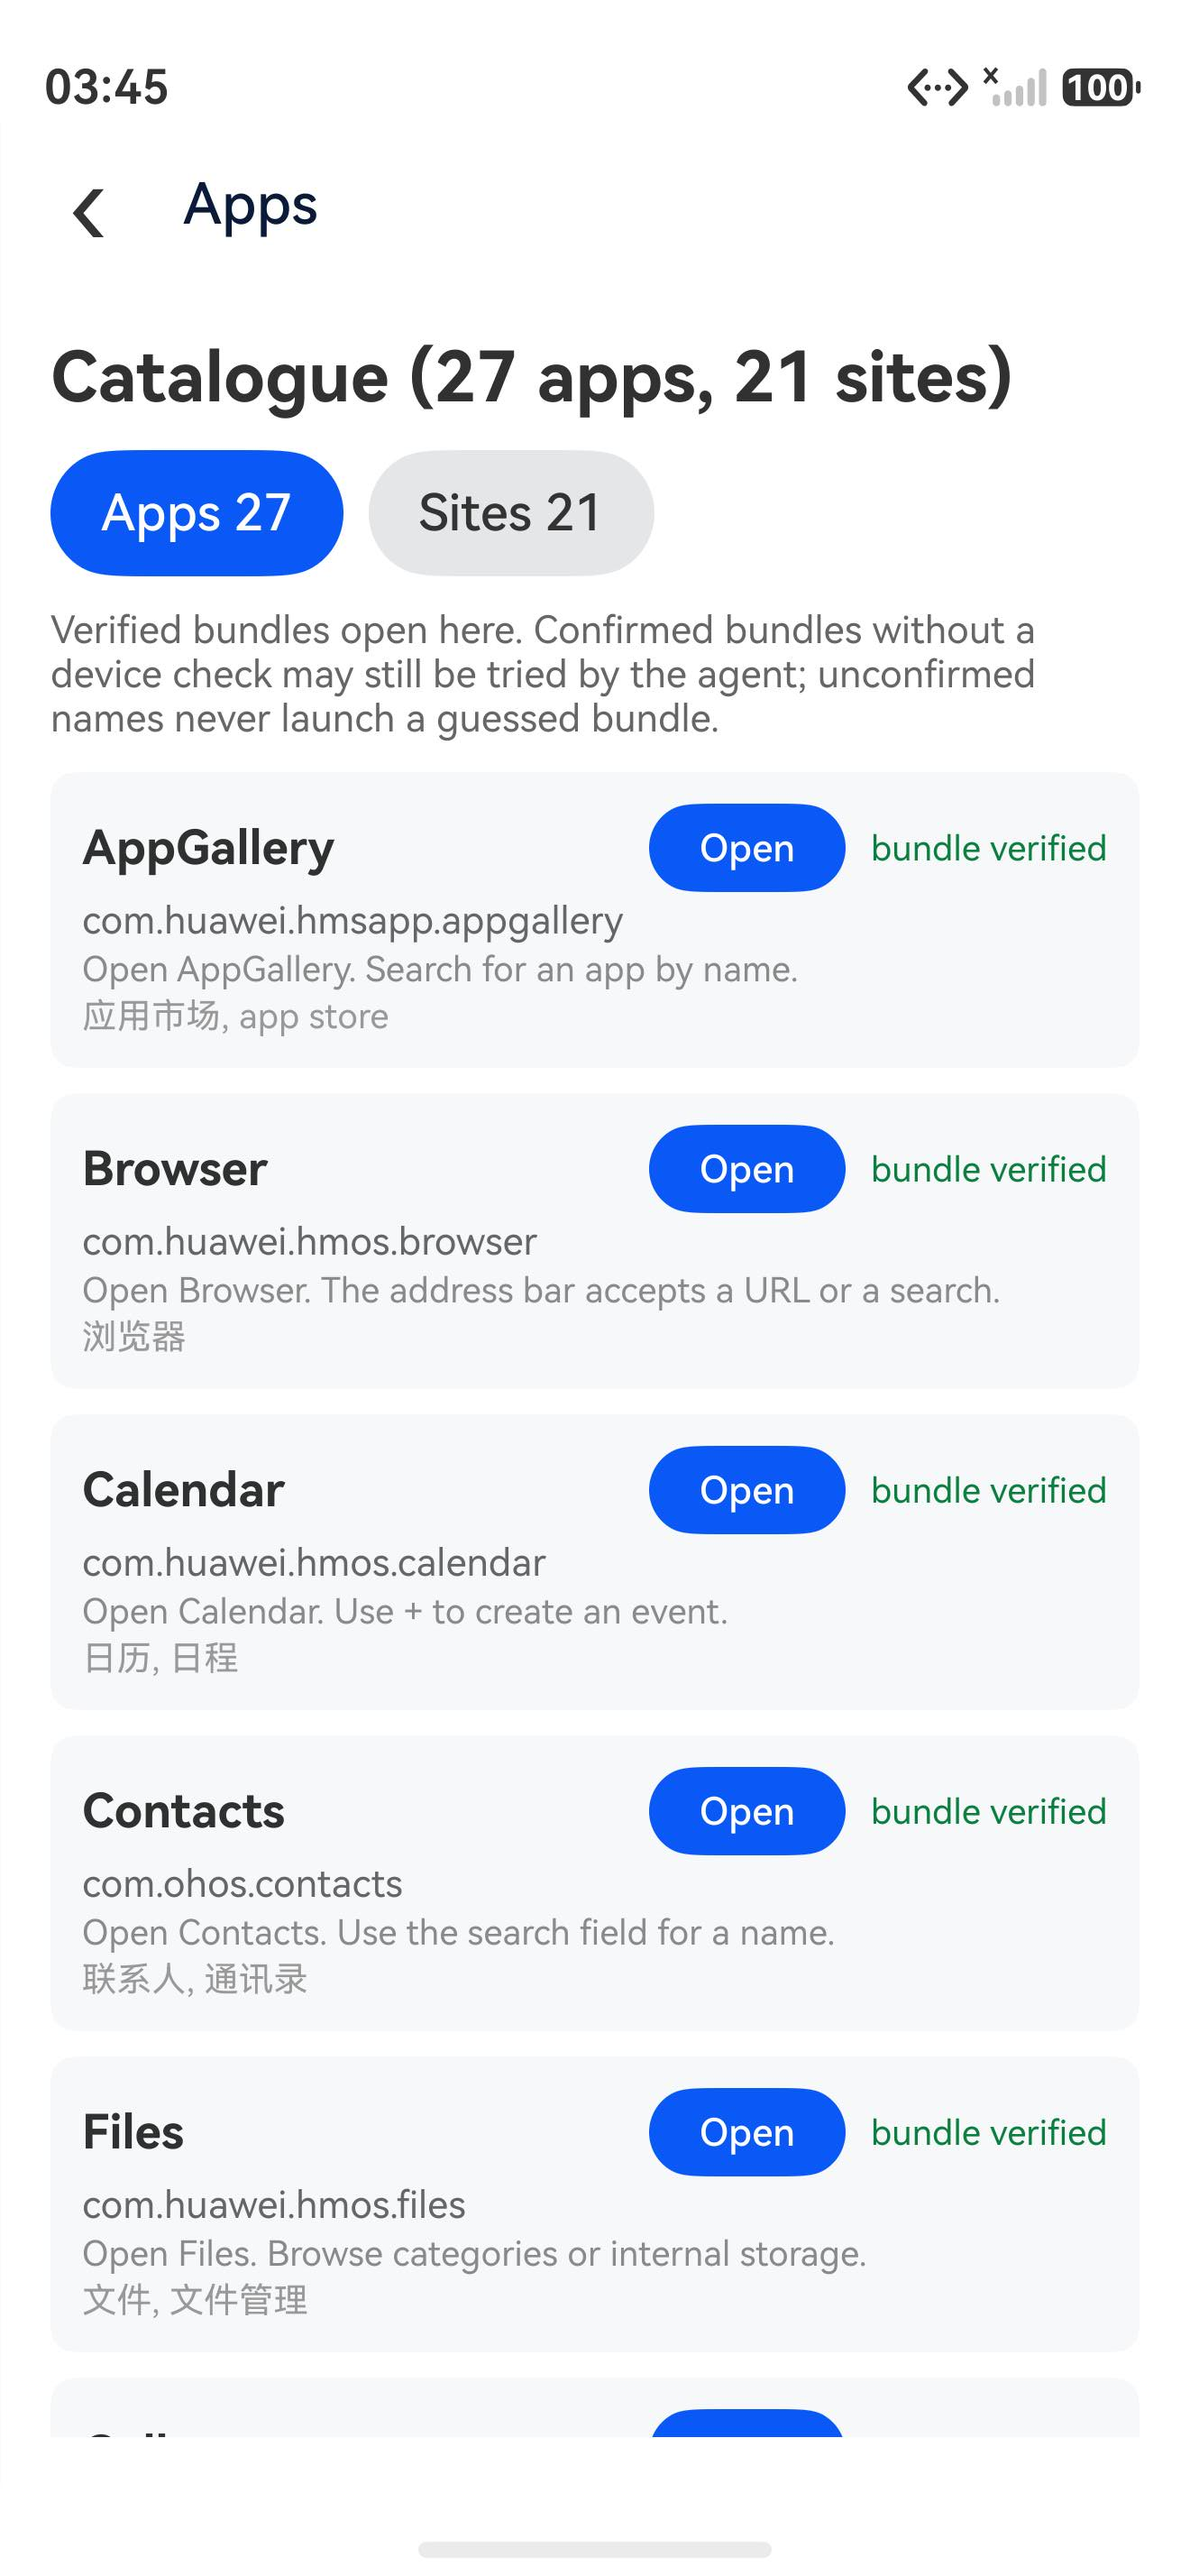
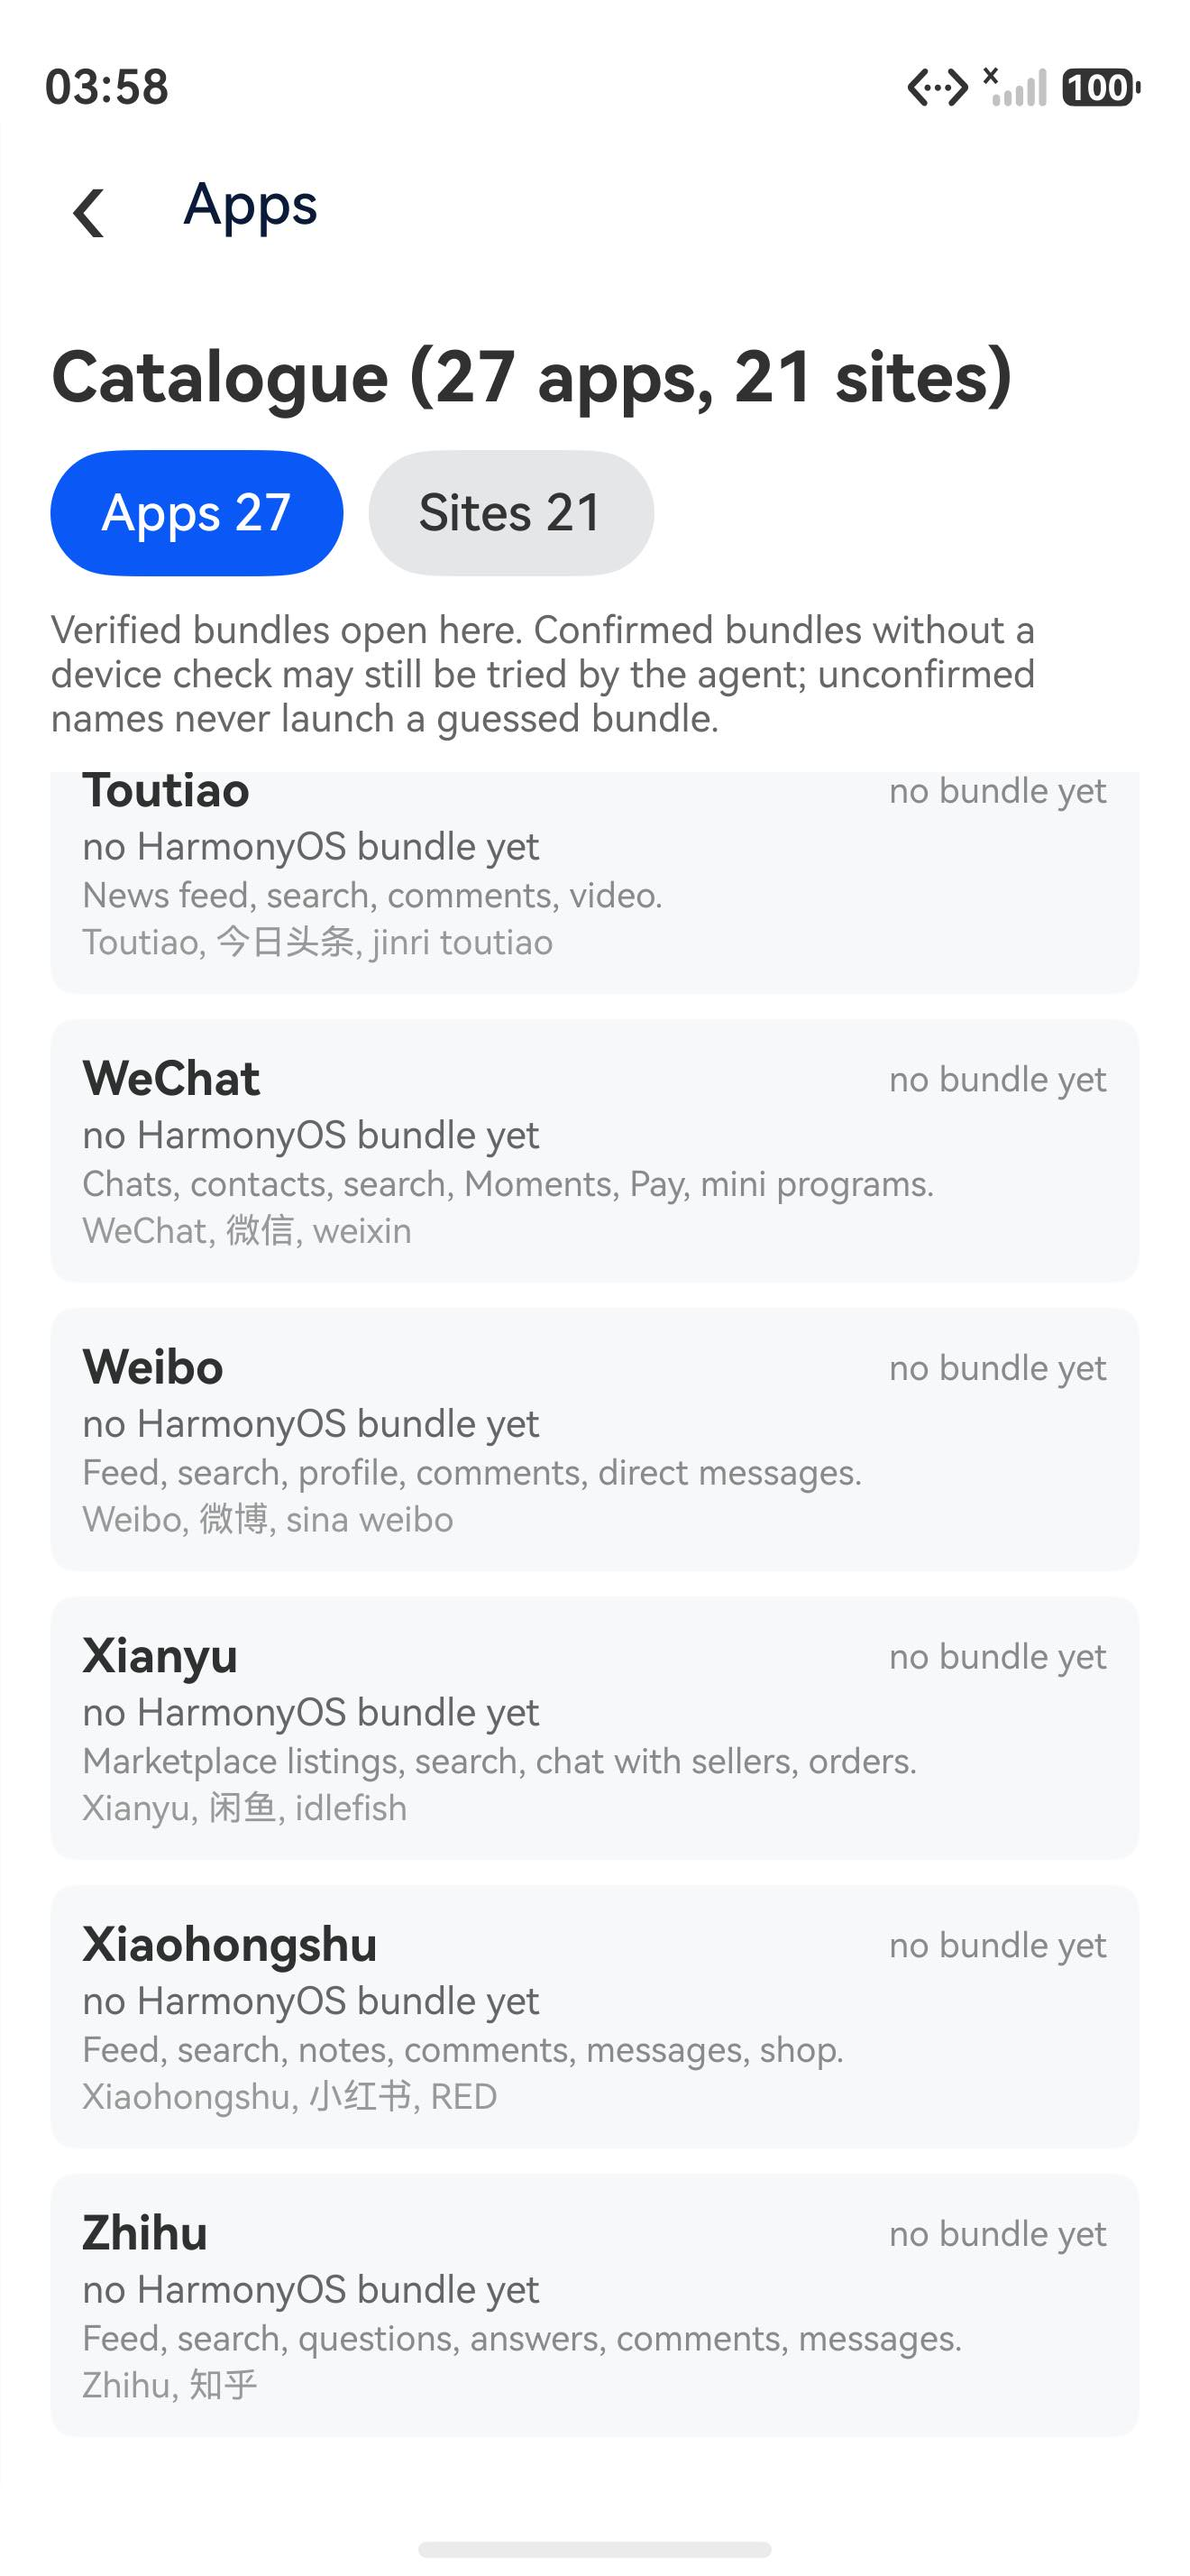
docs: show the app and site catalogues side by side with the Chinese app names

diff --git a/README.md b/README.md
@@ -69,25 +69,34 @@ that app installed; HOPA says when a bundle is missing instead of guessing.</sub
 
 <table>
 <tr>
-<td width="33%" align="center" valign="top">
+<td width="50%" align="center" valign="top">
 
-<img src="docs/media/chat.jpeg" alt="Real chat: HOPA opens Bilibili and summarizes the trends" height="600" />
+<img src="docs/media/chat.jpeg" alt="Real chat: HOPA opens Bilibili and summarizes the trends" height="560" />
 
 <br/><sub><b>Real: a website task.</b> One prompt: HOPA opened Bilibili, read the page and answered in Chinese.</sub>
 
 </td>
-<td width="33%" align="center" valign="top">
+<td width="50%" align="center" valign="top">
 
-<img src="docs/media/chat-example.svg" alt="Designed example of a WeChat message task with the approval dialog" height="600" />
+<img src="docs/media/chat-example.svg" alt="Designed example of a WeChat message task with the approval dialog" height="560" />
 
 <br/><sub><b>Designed: an app task.</b> A WeChat message with the approval step; WeChat is not installed on the test emulator.</sub>
 
 </td>
-<td width="33%" align="center" valign="top">
+</tr>
+<tr>
+<td width="50%" align="center" valign="top">
 
-<img src="docs/media/apps.jpeg" alt="HOPA app catalogue" height="600" />
+<img src="docs/media/apps.jpeg" alt="HOPA app catalogue" height="560" />
 
-<br/><sub><b>Real: the app catalogue.</b> AppGallery, Browser, Calendar, Contacts and more, with a verified bundle or an honest “not yet”.</sub>
+<br/><sub><b>Real: the app catalogue.</b> WeChat, Weibo, Xiaohongshu, Zhihu and more; when a bundle is missing, HOPA says so instead of guessing.</sub>
+
+</td>
+<td width="50%" align="center" valign="top">
+
+<img src="docs/media/sites.jpeg" alt="HOPA site catalogue with Bilibili, Xiaohongshu and Weibo" height="560" />
+
+<br/><sub><b>Real: the site catalogue.</b> Bilibili, Xiaohongshu, Weibo and more in the site catalogue.</sub>
 
 </td>
 </tr>
